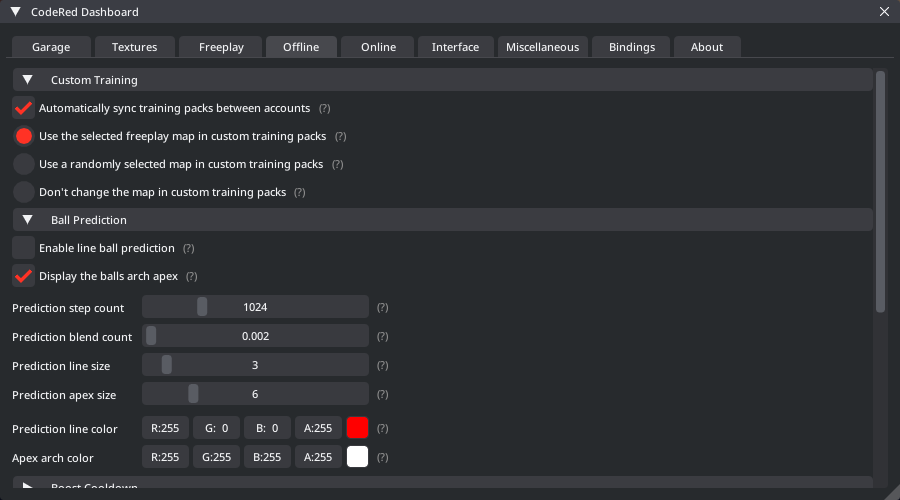
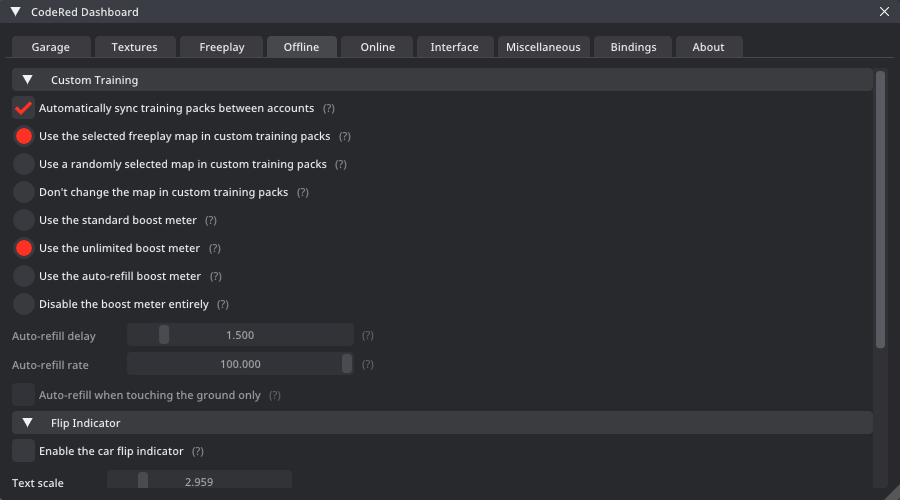
Initial Commit

diff --git a/documentation.html b/documentation.html
@@ -542,6 +542,10 @@
                                         <td>Dumps all information about game modes with the given arguments.</td>
                                     </tr>
                                     <tr>
+                                        <th class="theme-bg-light"><b>database_dump_psynet</b></th>
+                                        <td>Dumps all information about psynet classes with the given arguments.</td>
+                                    </tr>
+                                    <tr>
                                         <th class="theme-bg-light"><b>database_dump_errors</b></th>
                                         <td>Dumps all error classes the game uses.</td>
                                     </tr>
@@ -2053,6 +2057,34 @@
                                     <tr>
                                         <th class="theme-bg-light"><b>training_no_map &lttrue-false&gt</b></th>
                                         <td>Don't do any changes to maps for custom training packs.</td>
+                                    </tr>
+                                    <tr>
+                                        <th class="theme-bg-light"><b>training_boost_standard &lttrue-false&gt</b></th>
+                                        <td>Use the typical standard boost meter in custom training.</td>
+                                    </tr>
+                                    <tr>
+                                        <th class="theme-bg-light"><b>training_boost_unlimited &lttrue-false&gt</b></th>
+                                        <td>Use the unlimited boost meter in custom training.</td>
+                                    </tr>
+                                    <tr>
+                                        <th class="theme-bg-light"><b>training_boost_refill &lttrue-false&gt</b></th>
+                                        <td>Use the auto-refill boost meter in custom training.</td>
+                                    </tr>
+                                    <tr>
+                                        <th class="theme-bg-light"><b>training_boost_none &lttrue-false&gt</b></th>
+                                        <td>Disable the boost meter in custom training.</td>
+                                    </tr>
+                                    <tr>
+                                        <th class="theme-bg-light"><b>training_boost_refill_delay &lttrue-false&gt</b></th>
+                                        <td>The delay in seconds on when the auto-refill boost starts to refill in custom training.</td>
+                                    </tr>
+                                    <tr>
+                                        <th class="theme-bg-light"><b>training_boost_refill_rate &lttrue-false&gt</b></th>
+                                        <td>The rate the auto-refill boost uses when it starts to refill in custom training.</td>
+                                    </tr>
+                                    <tr>
+                                        <th class="theme-bg-light"><b>training_boost_refill_ground &lttrue-false&gt</b></th>
+                                        <td>Enable refilling boost when you touch the ground only in custom training.</td>
                                     </tr>
                                 </tbody>
                             </table>

diff --git a/changelog.html b/changelog.html
@@ -47,6 +47,7 @@
 		    <nav id="docs-nav" class="docs-nav navbar">
 			    <ul class="section-items list-unstyled nav flex-column pb-3">
                     <li class="nav-item section-title mt-3"><a class="nav-link scrollto" href="#section-3"><span class="theme-icon-holder me-2"><i class="fas fa-book"></i></span>Module Changelog</a></li>
+                    <li class="nav-item"><a class="nav-link scrollto" href="#item-3-5-6">Version 2.5.6</a></li>
                     <li class="nav-item"><a class="nav-link scrollto" href="#item-3-5-5">Version 2.5.5</a></li>
                     <li class="nav-item"><a class="nav-link scrollto" href="#item-3-5-4">Version 2.5.4</a></li>
                     <li class="nav-item"><a class="nav-link scrollto" href="#item-3-5-3">Version 2.5.3</a></li>
@@ -258,6 +259,15 @@
 		    <div class="container">
                 <article class="docs-article" id="section-3">
                     <h1 class="docs-heading">Changelog</h1>
+
+                        <section class="docs-section" id="item-3-5-6">
+                            <h2 class="section-heading">Version 2.5.6 (March 14th 2025)</h2>
+                            <h5>- Added seven new boost meter settings for custom training packs, these work exactly like the ones in freeplay but for custom training.</h5>
+                            <h5>- Added the new "Futura Garden" map to the main menu background changer along with Discord Rich Presence info.</h5>
+                            <h5>- Fixed some issues with displaying player avatars on the games leaderboard or league rankings.</h5>
+                            <h5>- Minor internal bug fixes related to the custom title system.</h5>
+                            <h5>- Updated internal SDK to the latest version of Rocket League.</h5>
+                        </section>
 
                         <section class="docs-section" id="item-3-5-5">
                             <h2 class="section-heading">Version 2.5.5 (March 7th 2025)</h2>
